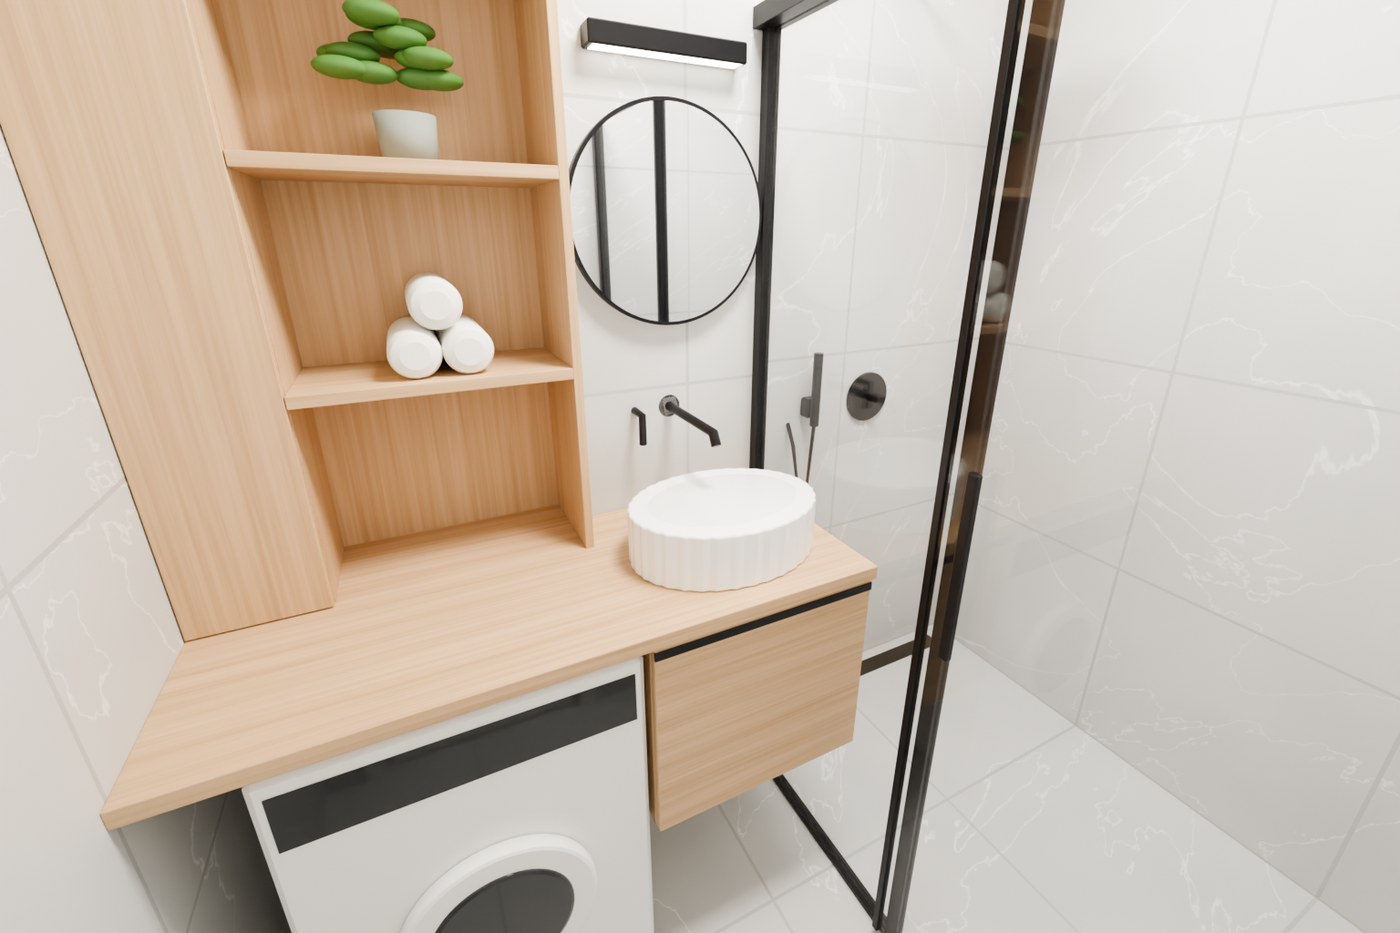
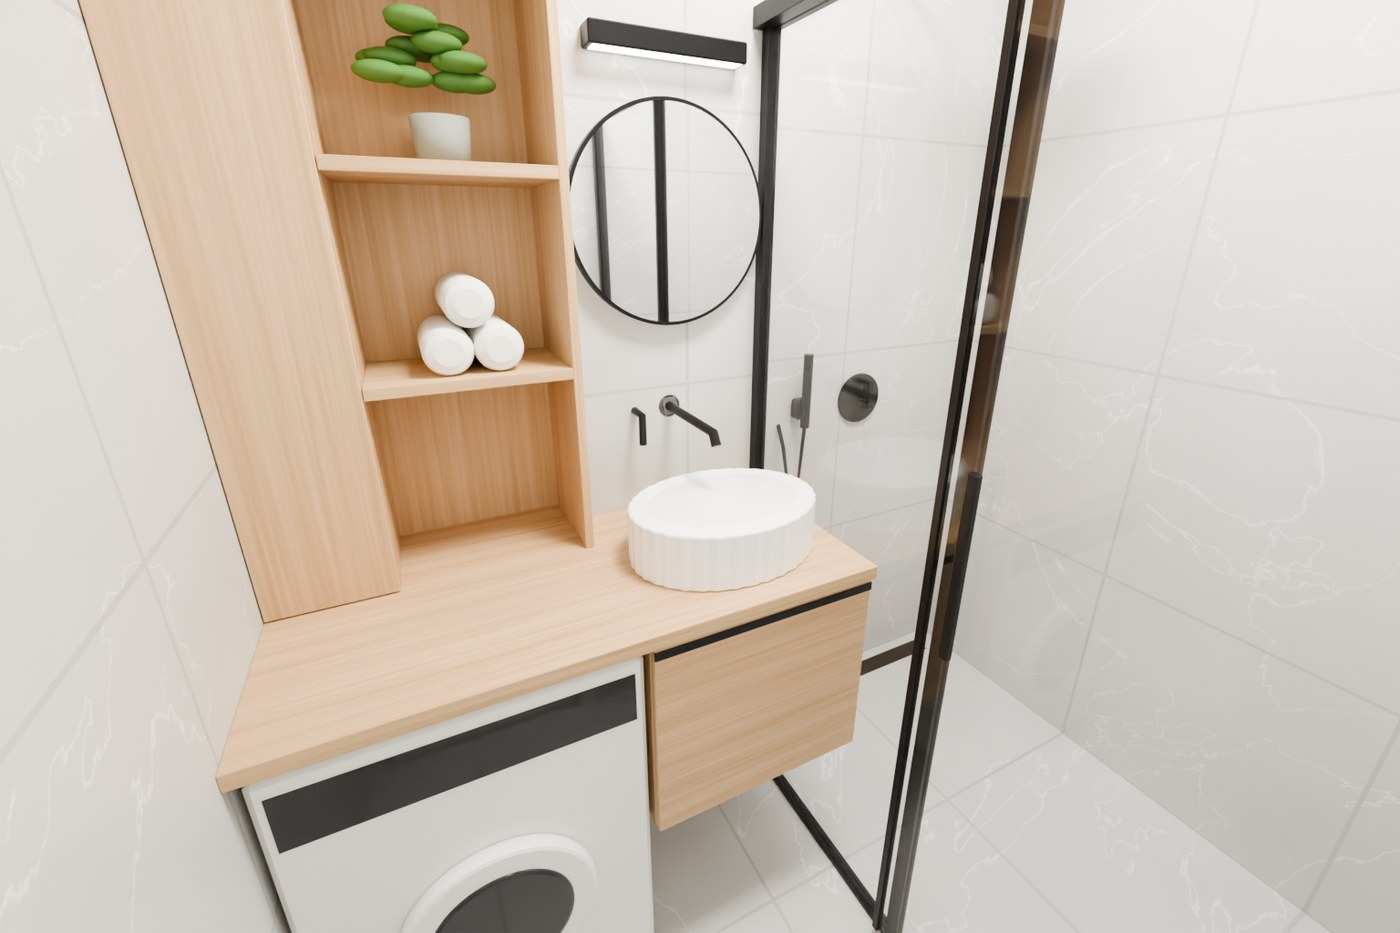
Kúpeľňa: sprcha 93, niša práčky 60 po sadrokartóne a obklade, predsadená stena po strop

diff --git a/index.html b/index.html
@@ -276,8 +276,8 @@ regenerate that view once with a stricter instruction.
 <section id="kupelna">
   <div class="eyebrow">Miestnosť 5 · strana 8 elektroprojektu, upravené podľa stavby (meranie 4. 11. 2026)</div>
   <h2>Kúpeľňa</h2>
-  <p class="meta">2,21 × 1,43 m · ≈ 3,1 m² · strop 260 cm</p>
-  <p>Od dverí je vľavo práčka 60 cm v nike, ktorej stena je o 11 cm hlbšie, v strede závesná umývadlová skrinka 50 cm na stene predsadenej kvôli rúram od radiátora a vpravo sprchový kút 100 × 143 cm. Od steny s umývadlom po protiľahlú stenu je 130 cm, presne na posuvné dvere SAT Feel 130, ktoré idú kolmo od hrany predsadenej steny. Obklad aj dlažba sú Aura Canvas Mate 60 × 60 z Merkury. Vybral si spoločnú dosku nad práčkou aj skrinkou; umývadlo je v troch variantoch U1 až U3 (otázka 20 v dokumente).</p>
+  <p class="meta">2,03 × 1,43 m po obklade · ≈ 2,9 m² · strop 260 cm</p>
+  <p>Od dverí je vľavo práčka 60 cm v nike, ktorej stena je o 11 cm hlbšie, v strede závesná umývadlová skrinka 50 cm na stene predsadenej až po strop kvôli rúram od radiátora a vpravo sprchový kút 93 × 143 cm. Na bočné steny ide sadrokartón a obklad (pri sprche 7 cm, pri práčke 11 cm), takže niša práčky má presne 60 cm. Od steny s umývadlom po protiľahlú stenu je 130 cm, presne na posuvné dvere SAT Feel 130, ktoré idú kolmo od hrany predsadenej steny. Obklad aj dlažba sú Aura Canvas Mate 60 × 60 z Merkury. Vybral si spoločnú dosku nad práčkou aj skrinkou; umývadlo je v troch variantoch U1 až U3 (otázka 20 v dokumente).</p>
 
   
   <h3>Fotovizualizácie</h3>
@@ -286,10 +286,10 @@ regenerate that view once with a stricter instruction.
   <div class="grid photos"><figure class=""><a href="img/kupelna-gpt3-A-stena.jpg" target="_blank" rel="noopener"><img src="img/kupelna-gpt3-A-stena.jpg" alt="Stena s umývadlom (pôvodné umývadlo pri stene)" loading="lazy"></a><figcaption>Stena s umývadlom (pôvodné umývadlo pri stene)</figcaption></figure><figure class=""><a href="img/kupelna-gpt3-A-sprcha.jpg" target="_blank" rel="noopener"><img src="img/kupelna-gpt3-A-sprcha.jpg" alt="Sprcha" loading="lazy"></a><figcaption>Sprcha</figcaption></figure><figure class=""><a href="img/kupelna-gpt3-A-dvere.jpg" target="_blank" rel="noopener"><img src="img/kupelna-gpt3-A-dvere.jpg" alt="Od dverí (pôvodné umývadlo)" loading="lazy"></a><figcaption>Od dverí (pôvodné umývadlo)</figcaption></figure></div>
 
   <h3>Pôdorys v mierke</h3>
-  <figure class="plan"><a href="img/kupelna-podorys.svg" target="_blank" rel="noopener"><img src="img/kupelna-podorys.svg" alt="Pôdorys v mierke: Kúpeľňa" loading="lazy"></a><figcaption>Kóty v cm podľa tvojho merania zo 4. 11. Šírka steny 221 cm je z projektu, preto je niša práčky (71 cm) zatiaľ predpoklad.</figcaption></figure>
+  <figure class="plan"><a href="img/kupelna-podorys.svg" target="_blank" rel="noopener"><img src="img/kupelna-podorys.svg" alt="Pôdorys v mierke: Kúpeľňa" loading="lazy"></a><figcaption>Kóty v cm podľa tvojho merania zo 4. a 5. 11. Hrubá šírka 221 cm je z projektu, po sadrokartóne a obklade na bočných stenách ostáva 203 cm.</figcaption></figure>
 
   <h3>Rozmery</h3>
-  <div class="tablewrap"><table><thead><tr><th>Čo</th><th>Rozmer</th><th>Odkiaľ</th></tr></thead><tbody><tr><td>Stena so sprchou, umývadlom a práčkou</td><td><b>221 cm</b></td><td class='src'>projekt, overiť (100 + 50 + 60 = 210)</td></tr><tr><td>Hĺbka pri sprche</td><td><b>143 cm od steny s batériou po protiľahlú stenu</b></td><td class='src'>tvoje meranie 4. 11.</td></tr><tr><td>Hĺbka pri umývadle</td><td><b>130 cm od predsadenej steny po protiľahlú stenu</b></td><td class='src'>tvoje meranie 4. 11.</td></tr><tr><td>Hĺbka pri práčke</td><td><b>141 cm, stena je o 11 cm hlbšie ako stena s umývadlom</b></td><td class='src'>tvoje meranie 4. 11.</td></tr><tr><td>Vstavaná práčka</td><td><b>60 cm v nike, vľavo pri stene s obývačkou</b></td><td class='src'>tvoja odpoveď</td></tr><tr><td>Umývadlová skrinka</td><td><b>50 cm, závesná, umývadlo na dosku, batéria zo steny</b></td><td class='src'>tvoja odpoveď</td></tr><tr><td>Sprchový kút</td><td><b>100 × 143 cm</b></td><td class='src'>tvoje meranie 4. 11.</td></tr><tr><td>Sprchové dvere</td><td><b>SAT Feel 130, posuvné, čierny profil, číre sklo, kolmo od predsadenej steny</b></td><td class='src'>SIKO, tvoja odpoveď</td></tr><tr><td>Výstupok sadrokartónu</td><td><b>13 cm len pri umývadle (rúry od radiátora)</b></td><td class='src'>tvoje meranie 4. 11.</td></tr><tr><td>Obklad a dlažba</td><td><b>Aura Canvas Mate 60 × 60, po strop aj na podlahe</b></td><td class='src'>Merkury</td></tr></tbody></table></div>
+  <div class="tablewrap"><table><thead><tr><th>Čo</th><th>Rozmer</th><th>Odkiaľ</th></tr></thead><tbody><tr><td>Stena so sprchou, umývadlom a práčkou</td><td><b>221 cm hrubá, 203 cm po obklade (93 + 50 + 60)</b></td><td class='src'>projekt, tvoja odpoveď 5. 11.</td></tr><tr><td>Hĺbka pri sprche</td><td><b>143 cm od steny s batériou po protiľahlú stenu</b></td><td class='src'>tvoje meranie 4. 11.</td></tr><tr><td>Hĺbka pri umývadle</td><td><b>130 cm od predsadenej steny po protiľahlú stenu</b></td><td class='src'>tvoje meranie 4. 11.</td></tr><tr><td>Hĺbka pri práčke</td><td><b>141 cm, stena je o 11 cm hlbšie ako stena s umývadlom</b></td><td class='src'>tvoje meranie 4. 11.</td></tr><tr><td>Vstavaná práčka</td><td><b>niša 60 cm po obklade, vľavo pri stene s obývačkou</b></td><td class='src'>tvoja odpoveď 5. 11.</td></tr><tr><td>Umývadlová skrinka</td><td><b>50 cm, závesná, umývadlo na dosku, batéria zo steny</b></td><td class='src'>tvoja odpoveď</td></tr><tr><td>Sprchový kút</td><td><b>93 × 143 cm (100 k hrubej stene, 7 cm sadrokartón a obklad)</b></td><td class='src'>tvoje meranie 4. a 5. 11.</td></tr><tr><td>Sprchové dvere</td><td><b>SAT Feel 130, posuvné, čierny profil, číre sklo, kolmo od predsadenej steny</b></td><td class='src'>SIKO, tvoja odpoveď</td></tr><tr><td>Výstupok sadrokartónu</td><td><b>13 cm len pri umývadle, až po strop (rúry od radiátora)</b></td><td class='src'>tvoje meranie 4. a 5. 11.</td></tr><tr><td>Obklad a dlažba</td><td><b>Aura Canvas Mate 60 × 60, po strop aj na podlahe</b></td><td class='src'>Merkury</td></tr></tbody></table></div>
 
   <h3>Ako je to rozvrhnuté</h3>
   <div class="cards"><div class='card'><h4>Sprcha</h4><p>Žľab pri stene s batériou, podomietková batéria, dažďová sprcha zo steny a ručná sprcha. Posuvné dvere s pevným dielom pri stene s batériou a posuvným krídlom pri protiľahlej stene.</p></div><div class='card'><h4>Umývadlo</h4><p>Závesná dubová skrinka 50 cm so zásuvkou, biele vrúbkované umývadlo na dosku, čierna batéria zo steny, okrúhle podsvietené zrkadlo a čierne svetlo nad ním.</p></div><div class='card'><h4>Práčka, variant A</h4><p>Spoločná dubová doska nad práčkou aj skrinkou, nad práčkou dubové police na uteráky a úzka skrinka po strop.</p></div><div class='card'><h4>Práčka, variant B</h4><p>Vysoká dubová skriňa po strop: dole práčka, nad ňou otvorená polica, hore dvoje dvierka.</p></div><div class='card'><h4>Obklad</h4><p>Aura Canvas Mate 60 × 60, svetlosivý s jemnými bielymi žilkami, na stenách po strop aj na podlahe.</p></div></div>
@@ -304,7 +304,7 @@ regenerate that view once with a stricter instruction.
   <div class="swatches"><div class='sw'><span style='background:#D8D8D6'></span>Obklad a dlažba Aura Canvas 60 × 60<small>#D8D8D6</small></div><div class='sw'><span style='background:#D3B18A'></span>Dub skrinky a police<small>#D3B18A</small></div><div class='sw'><span style='background:#17171A'></span>Profil dverí, batérie, zrkadlo<small>#17171A</small></div><div class='sw'><span style='background:#FAFAF8'></span>Umývadlo<small>#FAFAF8</small></div></div>
 
   <h3>Na overenie</h3>
-  <ol class="qs"><li>Sprcha 100 + skrinka 50 + práčka 60 je 210 cm, projekt má stenu 221 cm. Aká je celá šírka steny a aký široký je predsadený sadrokartón pri umývadle (otázka 21 v dokumente)?</li></ol>
+  <ol class="qs"><li>Sú hĺbky 143, 130 a 141 cm merané už s obkladom? Ak obklad ešte pribudne, otvor pre dvere SAT Feel 130 bude o niečo menší (otázka 22 v dokumente).</li></ol>
   <details><summary>Prompt pre Codex (ak by si chcel fotky z iného modelu)</summary><pre>Úloha: vytvor fotorealistické fotovizualizácie novej kúpeľne (2 varianty) a WC z jednofarebných 3D makiet (verzia 3).
 
 PODKLADY (na tomto počítači):
